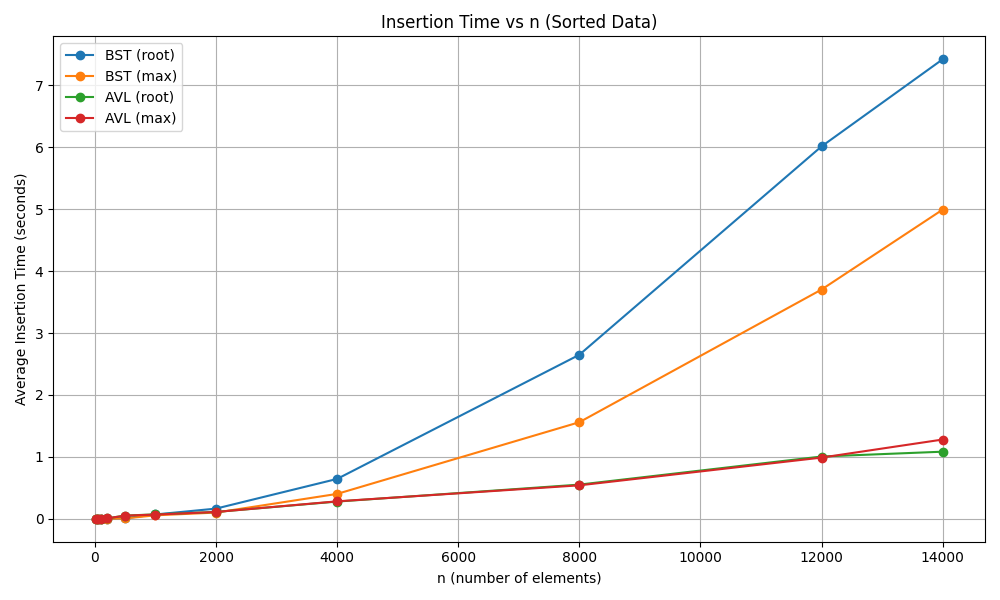
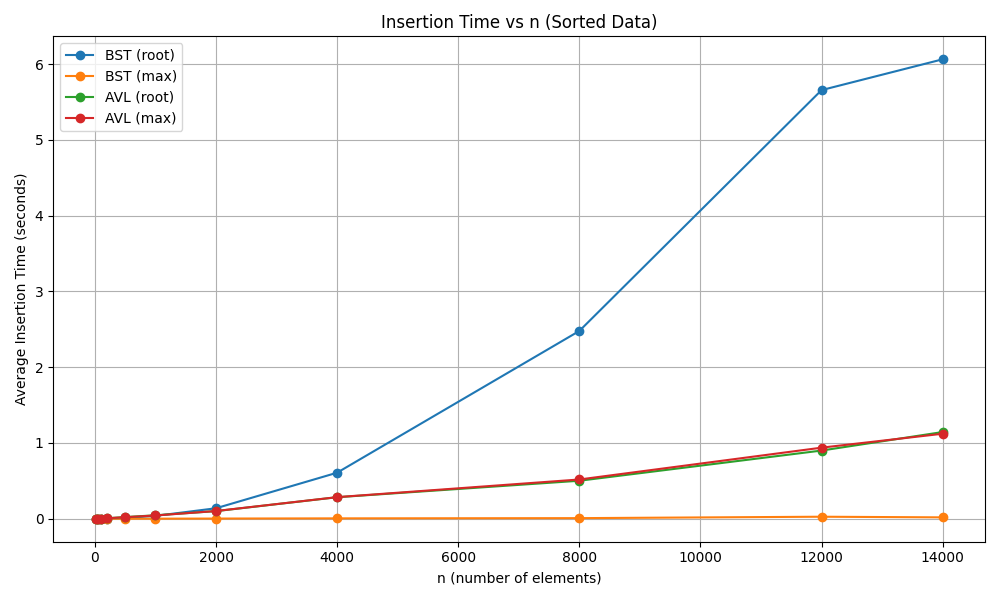
fixed bst, now its O(n) as intended

diff --git a/second_experiment/bst.py b/second_experiment/bst.py
@@ -10,22 +10,23 @@ class BSTree:
     def __init__(self):
         self.root = None
         self.size = 0
+        self.max_node = None  # Pointer to the maximum node
 
     def insert(self, key, val, start="root"):
         node = BSTNode(key, val)
         if self.root is None:
             self.root = node
+            self.max_node = node
             self.size += 1
             return
 
         if start == "root":
             current = self.root
         elif start == "max":
-            current = self.root
-            while current.right:
-                current = current.right
+            current = self.max_node  # Start from the maximum node
         else:
             raise ValueError("Invalid start value")
+
         while True:
             if key < current.key:
                 if current.left is None:
@@ -39,4 +40,9 @@ class BSTree:
                     node.parent = current
                     break
                 current = current.right
+
+        # Update max_node if needed
+        if self.max_node is None or key > self.max_node.key:
+            self.max_node = node
+
         self.size += 1
